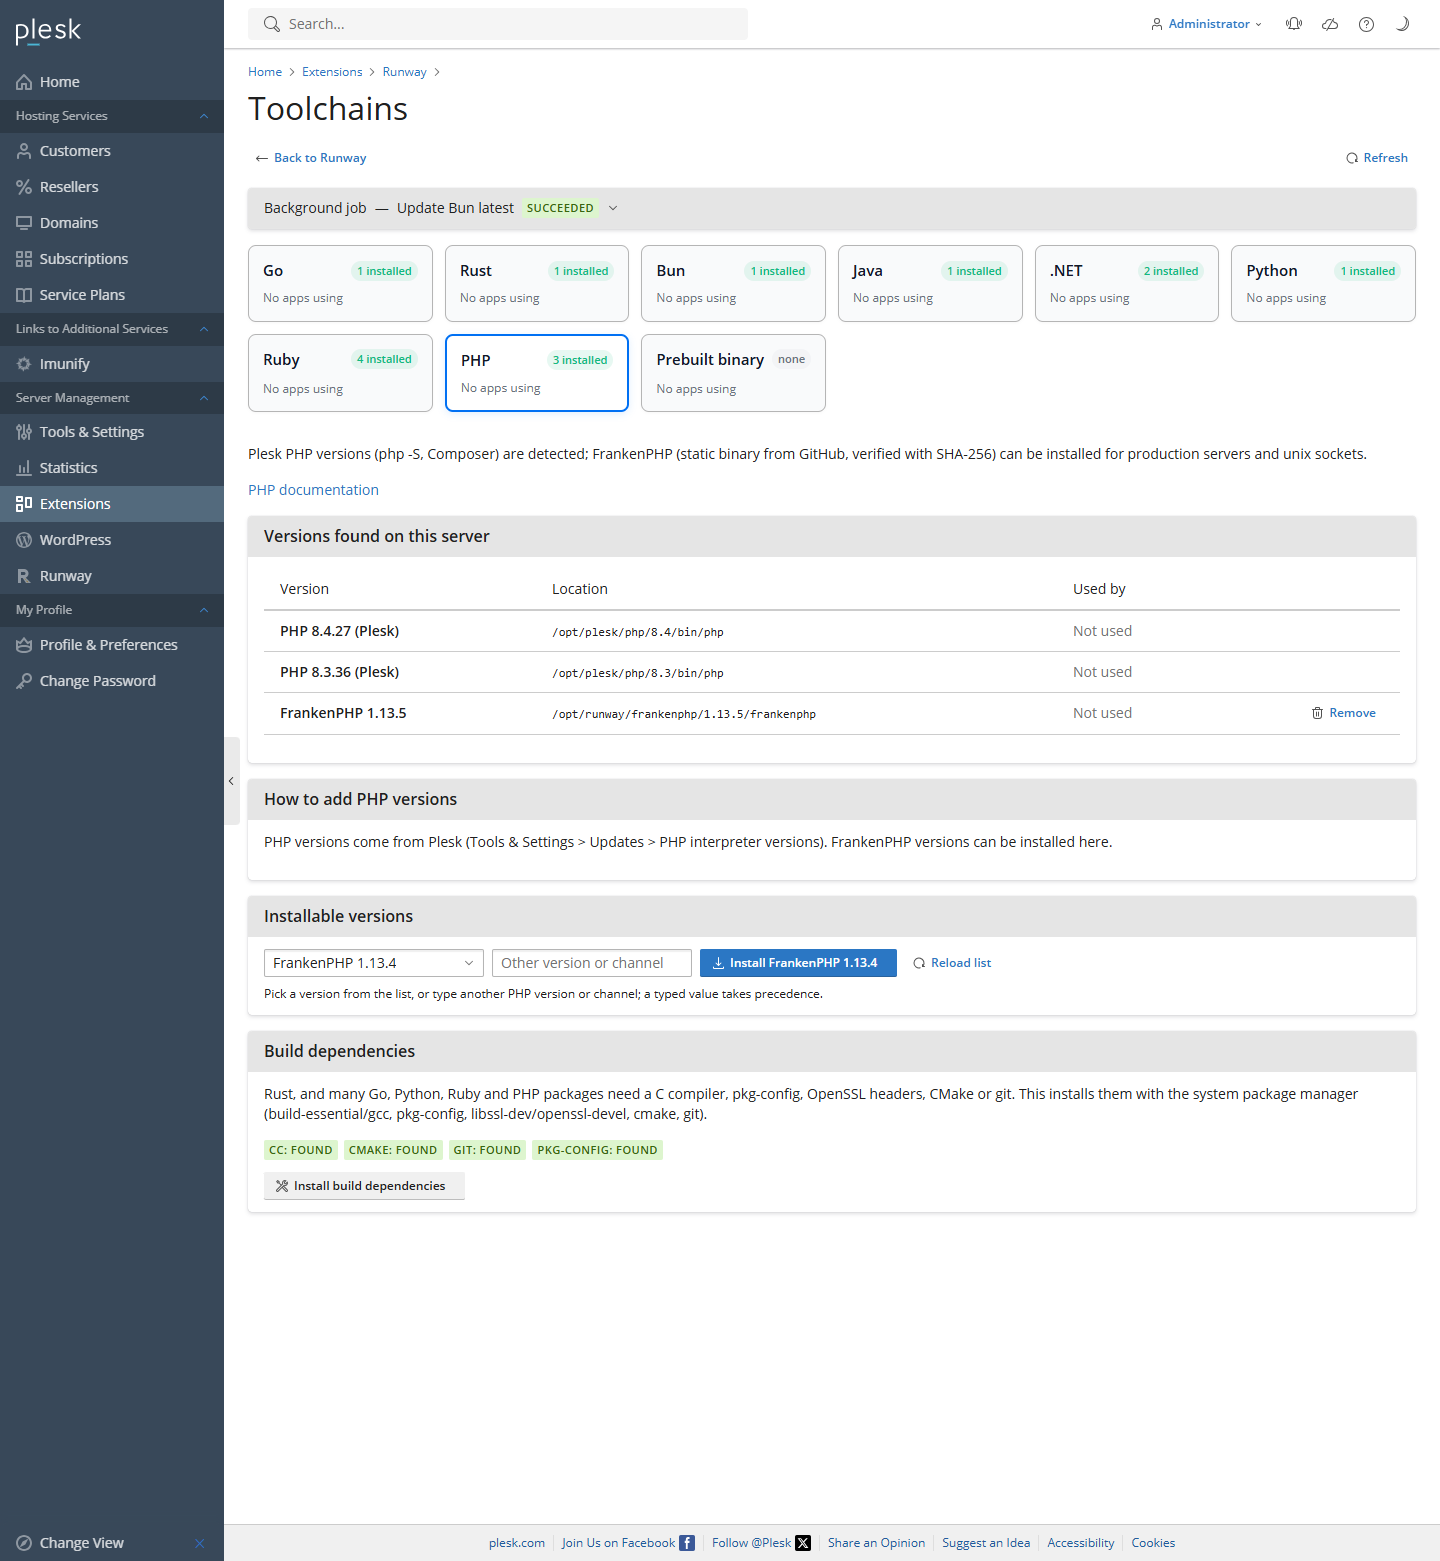
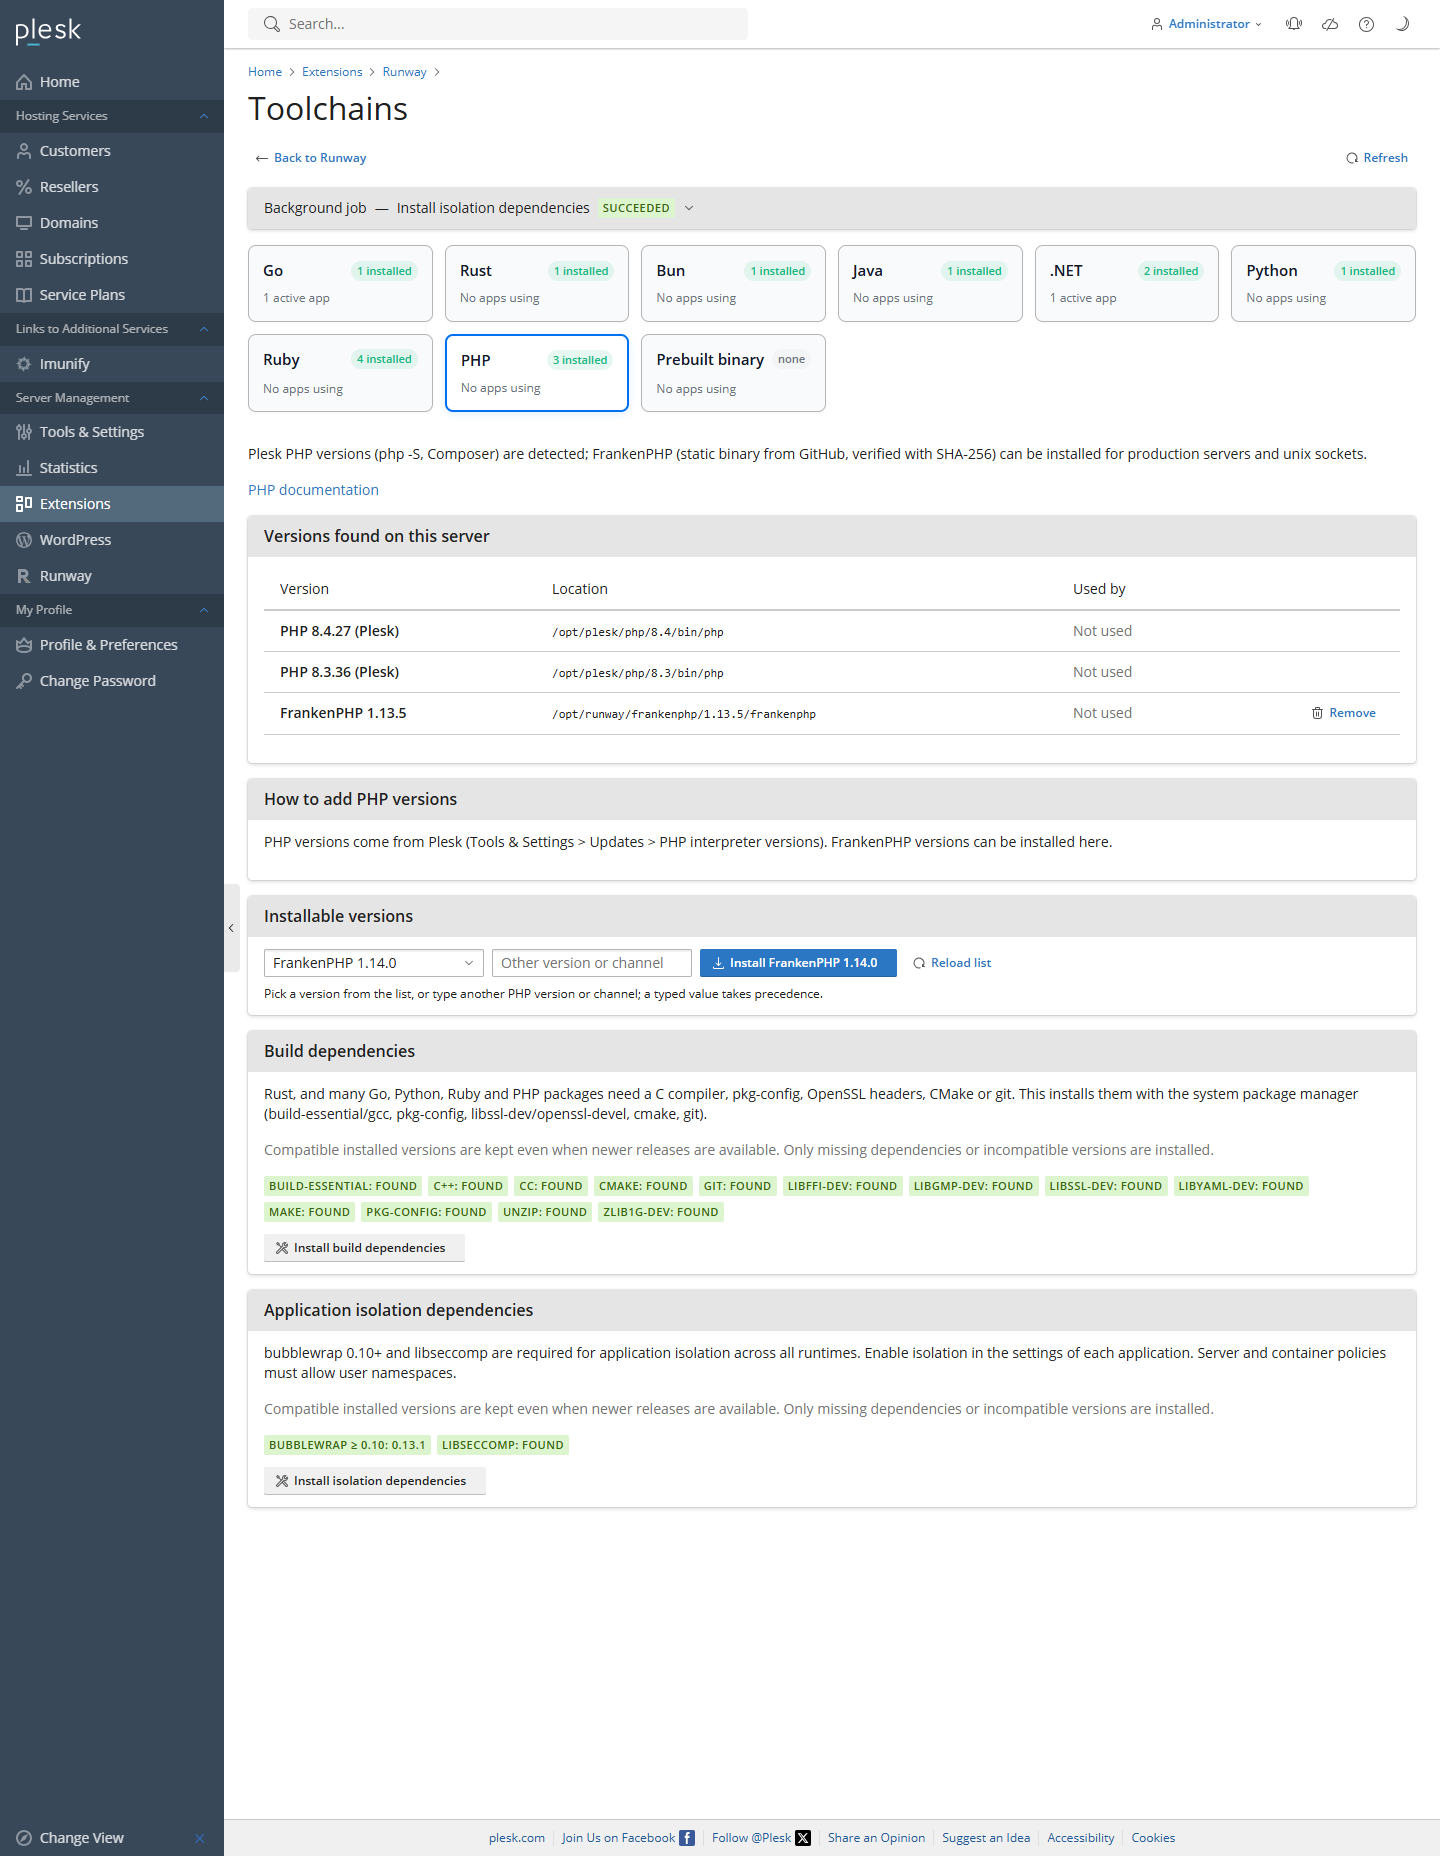
Fix Toolchains runtime usage counts
The Toolchains cards were reading installed[].domains instead of the usage data returned by api/toolchains, so runtime counts always showed no apps in use. This change adds a shared runtimeDomains helper that aggregates inUse entries and installed-domain fallbacks, and adds frontend tests covering the real API shape and malformed data.

diff --git a/src/frontend/Toolchains.js b/src/frontend/Toolchains.js
@@ -7,6 +7,7 @@ import {
     Toolbar, ToolbarExpander, Translate, withStatusMessages, useTranslate,
 } from '@plesk/plesk-ext-sdk';
 import { helperText, isObject, isolate, jobTitle, runtimeName } from './lib/format';
+import { runtimeDomains } from './lib/toolchains';
 import { isBusy, POLL_BUSY_MS, POLL_IDLE_MS, useApi, useApiData, useLatest, usePolling } from './lib/hooks';
 import ConfirmDialog from './components/ConfirmDialog';
 import ErrorAlert from './components/ErrorAlert';
@@ -420,12 +421,7 @@ const Toolchains = ({ baseUrl, statusMessages }) => {
                     const isSelected = meta.key === activeKey;
                     const entry = isObject(data.runtimes) && isObject(data.runtimes[meta.key]) ? data.runtimes[meta.key] : {};
                     const instList = Array.isArray(entry.installed) ? entry.installed : [];
-                    const allDomains = new Set();
-                    instList.forEach(item => {
-                        if (Array.isArray(item.domains)) {
-                            item.domains.forEach(d => allDomains.add(d.name || d));
-                        }
-                    });
+                    const allDomains = runtimeDomains(entry);
                     const count = instList.length;
 
                     return (

diff --git a/tests/frontend/toolchains.test.js b/tests/frontend/toolchains.test.js
@@ -1,0 +1,19 @@
+// Copyright 2026 Taiizor. Licensed under the MIT License.
+
+import { expect, test } from 'bun:test';
+import { runtimeDomains } from '../../src/frontend/lib/toolchains';
+
+test('the domains of a runtime come from inUse of api/toolchains', () => {
+    const entry = { installed: [{ id: '1.27.4' }, { id: '1.26.9' }], inUse: { '1.27.4': ['gotest.local', 'a.example'], '1.26.9': ['a.example'] } };
+    expect([...runtimeDomains(entry)].sort()).toEqual(['a.example', 'gotest.local']);
+});
+
+test('an unused runtime, a missing entry and malformed values give no domains', () => {
+    expect(runtimeDomains({ installed: [{ id: '1.27.4' }], inUse: {} }).size).toBe(0);
+    expect(runtimeDomains(undefined).size).toBe(0);
+    expect(runtimeDomains({ installed: 'x', inUse: { a: 'b', c: [null, '', 5] } }).size).toBe(0);
+});
+
+test('domains listed on an installed entry count as well', () => {
+    expect([...runtimeDomains({ installed: [{ id: 'x', domains: [{ name: 'b.example' }, 'c.example'] }] })].sort()).toEqual(['b.example', 'c.example']);
+});

diff --git a/src/frontend/lib/toolchains.js b/src/frontend/lib/toolchains.js
@@ -1,0 +1,25 @@
+// Copyright 2026 Taiizor. Licensed under the MIT License.
+
+const isObject = value => value !== null && typeof value === 'object' && !Array.isArray(value);
+
+/**
+ * The domains that use any installed version of a runtime, for the cards of the Toolchains page.
+ * api/toolchains reports the usage per version id in `inUse` ({"1.27.4": ["example.com"]}); an
+ * installed entry may also carry its own `domains` list.
+ */
+export const runtimeDomains = entry => {
+    const domains = new Set();
+    const add = list => (Array.isArray(list) ? list : []).forEach(d => {
+        const name = isObject(d) ? d.name : d;
+        if (typeof name === 'string' && name !== '') {
+            domains.add(name);
+        }
+    });
+    if (isObject(entry)) {
+        if (isObject(entry.inUse)) {
+            Object.keys(entry.inUse).forEach(version => add(entry.inUse[version]));
+        }
+        (Array.isArray(entry.installed) ? entry.installed : []).forEach(item => add(isObject(item) ? item.domains : null));
+    }
+    return domains;
+};

diff --git a/CHANGELOG.md b/CHANGELOG.md
@@ -10,6 +10,11 @@ The extension catalog shows `src/CHANGES.md`; keep both files in sync when relea
 
 ## [Unreleased]
 
+### Fixed
+
+- The runtime cards of the Toolchains page show how many applications use the runtime; they
+  always said "No apps using", because they read a field that `api/toolchains` does not send.
+
 ## [1.4.0] - 2026-11-24
 
 ### Added
